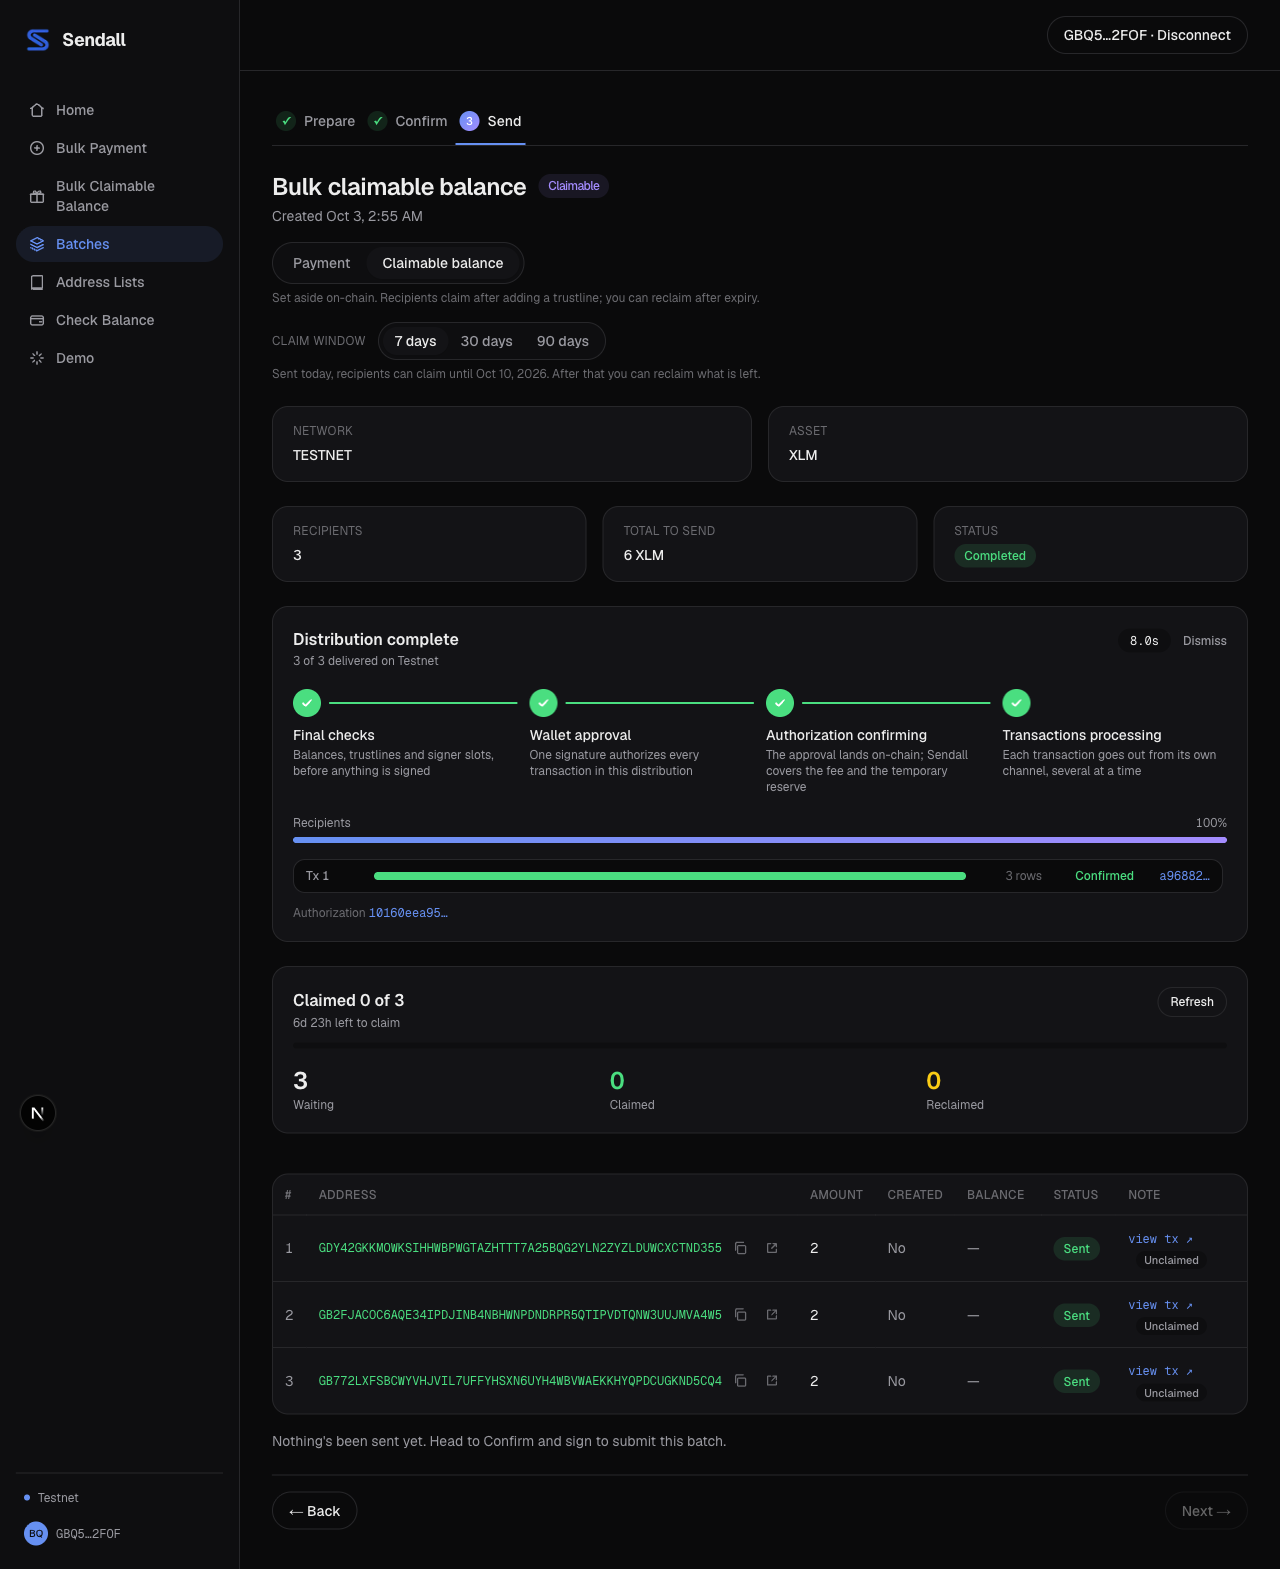
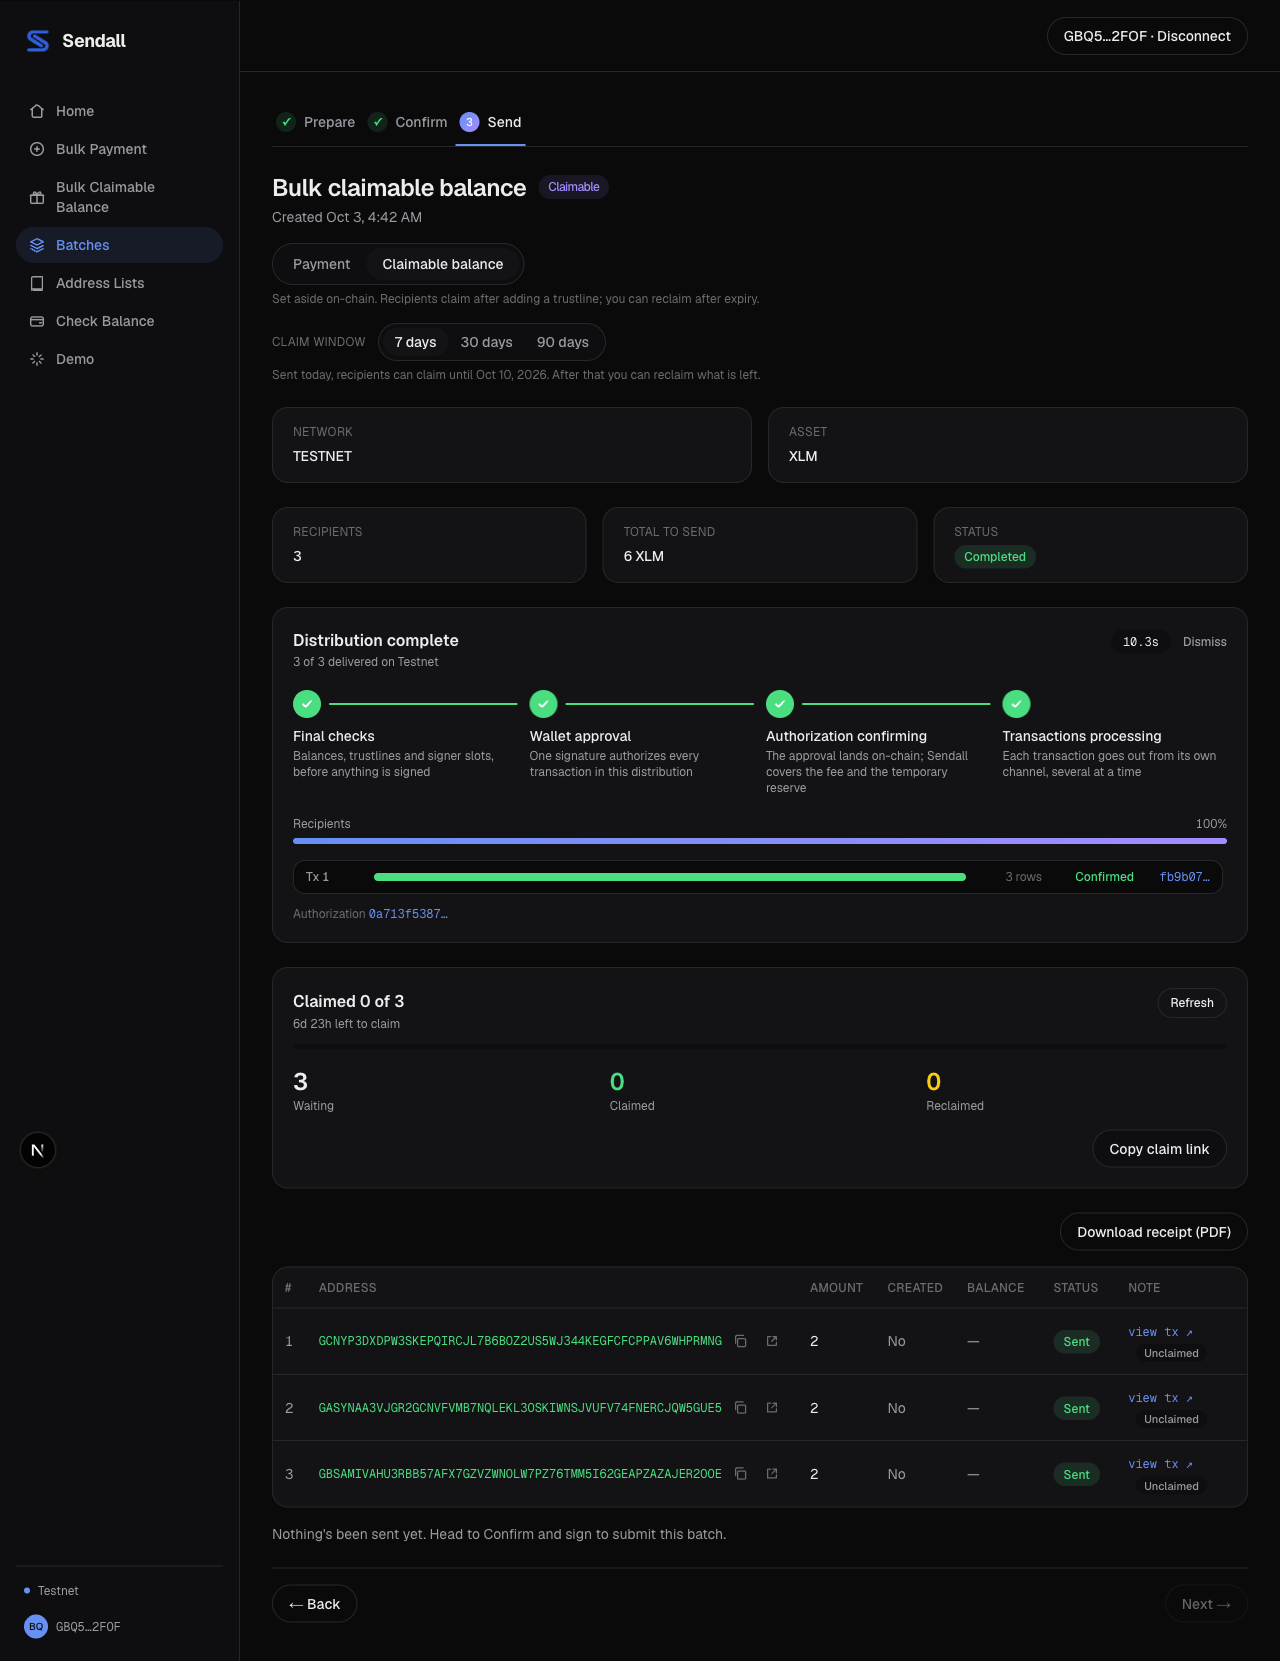
feat: download the receipt from the batch page
Sent and partly sent batches show "Download receipt (PDF)" on the Send
stage. A 1,000-row receipt renders as a valid multipage PDF, and the
claimable balance E2E run now downloads its receipt from the UI; that
file is kept with the evidence screenshots.

diff --git a/src/lib/receipt/receipt.test.ts b/src/lib/receipt/receipt.test.ts
@@ -1,0 +1,49 @@
+import { describe, expect, it } from "vitest";
+import { Keypair } from "@stellar/stellar-sdk";
+import type { ReceiptData } from "./receiptData";
+import { renderReceipt } from "./render";
+
+function data(rows: number): ReceiptData {
+  return {
+    number: "SND-TEST0001",
+    batchId: "b",
+    title: "Grant round payouts.csv",
+    sender: Keypair.random().publicKey(),
+    network: "TESTNET",
+    asset: { code: "USDC", issuer: Keypair.random().publicKey() },
+    kind: "CLAIMABLE_BALANCE",
+    date: new Date("2026-10-03T00:00:00Z"),
+    claimDeadline: new Date("2026-11-02T00:00:00Z"),
+    recipientCount: rows,
+    deliveredCount: rows - 1,
+    deliveredAmount: String((rows - 1) * 10),
+    failedCount: 1,
+    transactionCount: Math.ceil(rows / 100),
+    authorizationTxs: ["ab".repeat(32)],
+    rows: Array.from({ length: rows }, (_, i) => ({
+      index: i + 1,
+      address: Keypair.random().publicKey(),
+      amount: "10",
+      method: "Claimable balance" as const,
+      status: i === 0 ? "Not delivered" : "Set aside, unclaimed",
+      delivered: i !== 0,
+      txHash: i === 0 ? null : "cd".repeat(32),
+    })),
+  };
+}
+
+// Count page objects in the raw PDF ("/Type /Page" but not "/Pages").
+const pageCount = (pdf: Buffer) => (pdf.toString("latin1").match(/\/Type\s*\/Page(?!s)/g) ?? []).length;
+
+describe("receipt PDF", () => {
+  it("renders 1,000 rows as a valid multipage PDF", async () => {
+    const pdf = await renderReceipt(data(1000));
+    expect(pdf.subarray(0, 5).toString()).toBe("%PDF-");
+    expect(pdf.subarray(-8).toString()).toContain("%%EOF");
+    expect(pageCount(pdf)).toBeGreaterThan(20);
+  }, 60_000);
+
+  it("keeps a small receipt on one page", async () => {
+    expect(pageCount(await renderReceipt(data(5)))).toBe(1);
+  });
+});

diff --git a/src/app/(app)/batches/[batchId]/page.tsx b/src/app/(app)/batches/[batchId]/page.tsx
@@ -1078,6 +1078,15 @@ export default function BatchReviewPage() {
       {displayedStage === "send" && (
         <div className="flex flex-col gap-4">
           <div className="flex flex-wrap justify-end gap-2">
+            {(batch.status === "COMPLETED" || batch.status === "PARTIAL_FAILURE") && (
+              <a
+                href={`/api/batches/${batchId}/receipt`}
+                download
+                className="cursor-pointer rounded-full border border-hairline px-4 py-2 text-sm font-medium text-ink hover:bg-sidebar"
+              >
+                Download receipt (PDF)
+              </a>
+            )}
             {convertibleCount > 0 && (
               <button
                 onClick={convertFailed}

diff --git a/e2e/tests/claimable-send.spec.ts b/e2e/tests/claimable-send.spec.ts
@@ -47,4 +47,12 @@ test("a claimable balance distribution goes out with one signature", async ({ co
   await page.addStyleTag({ content: "[data-sonner-toaster]{display:none !important}" });
   await claims.screenshot({ path: `${SHOTS}/claim-status.png` });
   await page.screenshot({ path: `${SHOTS}/claimable-sent.png`, fullPage: true });
+
+  // The receipt for this distribution downloads from the batch page.
+  const [download] = await Promise.all([
+    page.waitForEvent("download"),
+    page.getByRole("link", { name: "Download receipt (PDF)" }).click(),
+  ]);
+  expect(download.suggestedFilename()).toMatch(/^sendall-receipt-SND-[A-Z0-9]{8}\.pdf$/);
+  await download.saveAs(`${SHOTS}/receipt-claimable-sample.pdf`);
 });

diff --git a/docs/epics.md b/docs/epics.md
@@ -167,7 +167,7 @@ Environment:
 - [x] **T4.1** `GET /api/batches/[batchId]/receipt` returns a PDF.
   - Try `@react-pdf/renderer` first; if it fails under Next 16, use `pdfkit` and record the choice in the commit body.
   - Layout per PRD 3.5, multipage.
-- [ ] **T4.2** Download button on completed and partial batches. Test that rendering 1,000 rows produces a valid multipage PDF.
+- [x] **T4.2** Download button on completed and partial batches. Test that rendering 1,000 rows produces a valid multipage PDF.
 
 ## E5 Mainnet
 
@@ -225,3 +225,4 @@ Environment:
 - 2026-10-03 T3.7 done. Public `/claim` (outside the app shell; server page resolves `?batch=` to its network, else `?network=`) with `ClaimClient`: connect wallet (no session), list what this address can claim now, select, one transaction (`changeTrust` for missing assets + `claimClaimableBalance`, max 100 ops), recipient signs and pays the fee. Guidance for an inactive account (needs 1 XLM + 0.5 per new asset; friendbot link on Testnet). `claimPage.ts`: `predicateOpen` evaluator (unconditional/abs/rel/not/and/or), `listClaimable` (Horizon by claimant, open predicates only, needsTrustline, this batch's balances first), `buildClaimTx`, `submitClaimTx`. Decision: submit relays only `changeTrust`/`claimClaimableBalance` ops from the signer's own account, so the public endpoint cannot be used as a generic relay; a successful claim marks the matching rows CLAIMED. API `GET /api/claim`, `POST /api/claim/build`, `POST /api/claim/submit`. The batch page claim card has "Copy claim link" (`/claim?batch=`). Tests: predicate unit; Testnet (issuer-sent custom asset, trustline added and claimed in one tx, row CLAIMED, balance 25 held; payment tx refused; inactive account handled); E2E `claim-page.spec.ts` with Freighter as recipient via new `e2e/scripts/seed-claim-for-wallet.ts`. Screenshots `claim-page-connect.png`, `claim-page-list.png`, `claim-page-done.png`. vitest 162/162, lint, tsc clean.
 - 2026-10-03 T3.8 done. Unit coverage for predicates (`buildChunks.test`, `claimPage.test`) and reserve (`reserve.test`) was already in place. New `scenarios/claimableLifecycle.ts`: issuer, sender holding the asset, 3 recipients without the trustline (A claims via the public flow with trustline in the same tx, B never claims, C has no account), then a short window and the sender reclaims B and C with one signature. Its integration test checks CLAIMED/RECLAIMED/RECLAIMED, A holds 50, sender 950, sender `num_sponsoring` 0. `scripts/evidence-claimable.ts` runs it and writes `docs/evidence-testnet.md` (setup, create, claim, reclaim-setup, reclaim hashes, per-recipient balance ids and outcomes). Hashes checked on Horizon: setup fee paid by sponsor `GDJDV3…`, claim from recipient A, reclaim chunk fee-bumped by the sponsor from a channel. vitest 163/163, lint, tsc clean.
 - 2026-10-03 T4.1 done: `@react-pdf/renderer` 4.9 (already in Next's serverExternalPackages, no config needed). `receiptData.ts` covers channel and legacy rows: method, status (claim status for claimable balances), tx hash, totals and authorization txs. `ReceiptDocument.tsx` is an invoice layout with a repeated table header, page numbers and explorer links. Route `GET /api/batches/[id]/receipt` returns 409 before the batch is sent, 404 without access, and a PDF attachment otherwise; checked on the live Next 16 dev server. Fix: react-pdf hyphenated Stellar addresses ("…WKM-") and printed wrong values, so hyphenation is disabled and the columns resized; all 150 addresses now extract intact. Testnet test: 150-row run gives a 4-page PDF. Preview `docs/screenshots/sow2/receipt-page1.png`. vitest 164/164, lint, tsc clean.
+- 2026-10-03 T4.2 done: "Download receipt (PDF)" link on the Send stage for COMPLETED and PARTIAL_FAILURE batches. Tests: 1,000-row render gives a valid PDF (`%PDF-` / `%%EOF`, more than 20 pages) and 5 rows fit on one page; the E2E claimable send downloads the receipt from the UI (`sendall-receipt-SND-XXXXXXXX.pdf`), saved as `docs/screenshots/sow2/receipt-claimable-sample.pdf` with page preview `receipt-claimable-page1.png` (claim deadline, "Set aside, unclaimed", tx links). vitest 166/166, lint, tsc clean.
